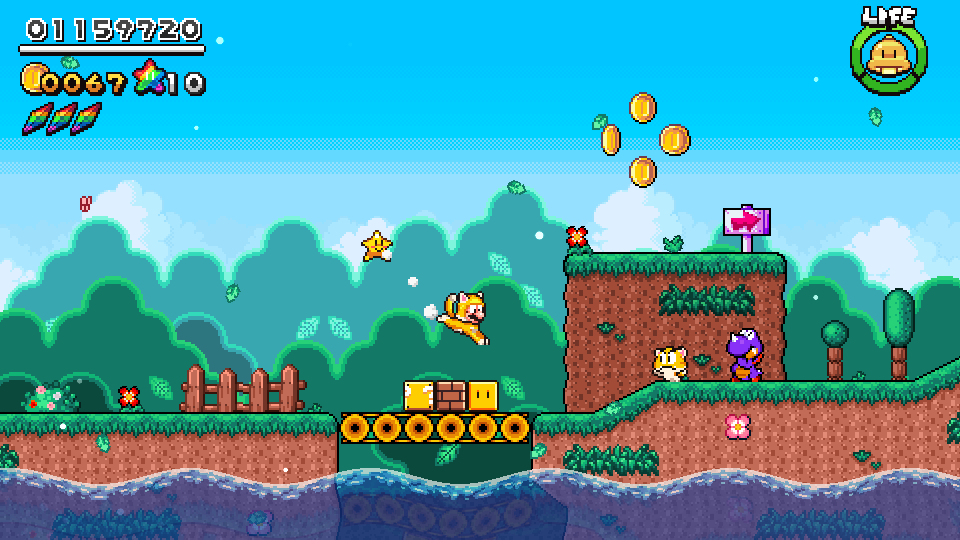
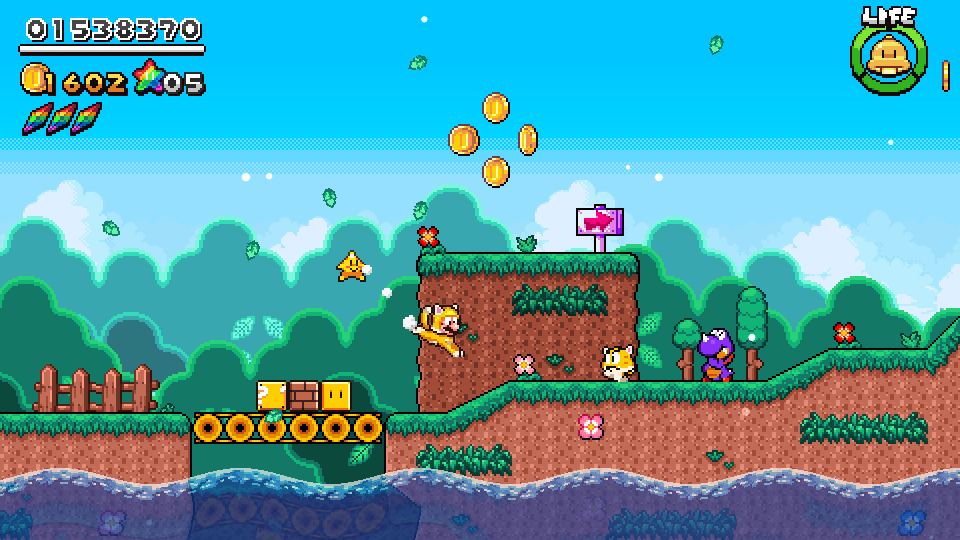
v1.1.0 update release

diff --git a/smatrs/download.html b/smatrs/download.html
@@ -56,6 +56,7 @@
                 <h3>Tips</h3>
                 <p>Resizing the game window is <strong>strongly recommended</strong>, as it defaults to SMBX2's original resolution.</p>
                 <p>For the best experience, putting Graphical Quality to High in settings is recommended.</p>
+                <p>Multiplayer is local only, but for playing online <strong><a href="https://parsec.app/downloads" class="link" target="_blank">Parsec</a></strong> is recommended!</p>
                 <p>On the episode list, there is a trophy icon at the bottom left. Clicking on it will show achievements you can unlock!</p>
                 <p>You can easily change controls within SMATRS, by going into settings.</p>
                 <p>Collecting every Rainbow Shard in every level unlocks something special!</p>
@@ -64,26 +65,37 @@
         
             <div class="text-box" id="download">
                 <h2>Download</h2>
-                <p>Version 1.0.2</p>
-                <p>Download size (All):   616 MB (319 MB zipped) </p>
-                <p>Download size (Episode): 138 MB (118 MB zipped)</p>
+                <p>Version 1.1.0</p>
+                <p>Download size (All):   616 MB (347 MB zipped) </p>
+                <p>Download size (Episode): 120 MB (111 MB zipped)</p>
                 <p>Demo length: around 2-4 hours</p>
                 <p>All credits can be found in the _credits file.</p>
 				<div class="download-box" id="download-box">
-                <h3><strong><a href="https://drive.google.com/file/d/1j4Oi1qfIMpjIpxYhT9XtAiH_sPfgMLpM/view?usp=sharing" class="link" target="_blank">Download All</a></strong></h3>
-                <p><strong><a href="https://mega.nz/file/CAoBnIBa#V-8KGiobdcYOXzryvVl11o7g86PMp0nvDk5zgk4ifpg" class="link" target="_blank">Mirror Link</a></strong></p>
+                <h3><strong><a href="https://drive.google.com/file/d/1IL5slgwO3sSxEzs5FjNS_dCGu_8ggSbu/view?usp=sharing" class="link" target="_blank">Download All</a></strong></h3>
+                <p><strong><a href="https://mega.nz/file/6cRhFQbJ#uQw0HnOKux0oEnmZKtauofWTYpQn8OGowruIxt9mfFY" class="link" target="_blank">Mirror Link</a></strong></p>
 				 </div>
 				 <p></p>
 				<div class="download-box" id="download-box">
-                <h3><strong><a href="https://drive.google.com/file/d/1-uOQgq6Qbxbf2asLJrrmH1f7yV7GEVWR/view?usp=sharing" class="link" target="_blank">Download Episode</a></strong></h3>
-                <p><strong><a href="https://mega.nz/file/WB4VQbzI#ziM9R1xH1WRn1R5-hIXOXTcuSrtooJKiovCP-YPrE30" class="link" target="_blank">Mirror Link</a></strong></p>
+                <h3><strong><a href="https://drive.google.com/file/d/1ae2nwgsF2wHxU78xox46280TIstrhJxL/view?usp=sharing" class="link" target="_blank">Download Episode</a></strong></h3>
+                <p><strong><a href="https://mega.nz/file/mEpBQaBZ#ymmXNuoQ3CzW83xtQd30ZWwc5Zt_7O9pyHq2T3ZprBU" class="link" target="_blank">Mirror Link</a></strong></p>
 				 </div>
 				<p></p>
 				 <p>You can read the changelog <strong><a href="changelog" class="link" target="">here</a></strong>.</p>
 				 <p><strong><a href="versions" class="link" target="">Older versions</a></strong></p>
             </div>
         </div>
+
+        <div class="container">
+            <div class="text-box" id="update">
+                <h2>How to Update</h2>
+				<p>To update, first download the game only by clicking on <strong>Download Episode</strong>. </p>
+				<p>For the location of the zip file, open <strong></strong>SMBX2 + SMATRS</strong>, then go into <strong>data/worlds</strong> of the folder.</p>
+				<p>Afterwards, extract the zip file and replace every file.</p>	
+				<p>You now have successfully updated the game! The zip file can be deleted.</p>	
+            </div>
+
     </main>
+
 
     <footer class="footer">
         <p>The Rainbow Stars Team and Super Mario and the Rainbow Stars are not affiliated with or endorsed by Nintendo. All related assets are property of Nintendo or their respective owners. Super Mario and the Rainbow Stars is a project that is strictly for free and anything sold for monetary gain is not endorsed by us.</p>

diff --git a/smatrs/changelog.html b/smatrs/changelog.html
@@ -56,9 +56,55 @@
 <body class="home-page">
 <div class="site-bg"></div>
  <main>
+
+    <div class="container">
+        <div class="text-box" id="changelog">
+            <h2>Changelog</h2>
+            <h3>v1.1.0 - 1/3/2025</h3>
+                <h3><strong>Changes:</strong></h3>
+                <p>Added Multiplayer. Player 1 controls Mario and player 2 Cosmic Mario with both their own partner.</p>
+                <p>Added Badges & Badge Shops. There are 3 types of Badges, which you can choose 1 of each from when starting a level.</p>
+                <p>Added Color Palettes to Mario as obtainable Badges.</p>
+                <p>Added Spicy Daredevil. To activate, enter the pipe unlocked after beating 1-Village, and talk to the NPC inside the area.</p>
+                <p>Added a Course List & Fast Travel on the world map.</p>
+                <p>Added 2 new original music tracks.</p>
+                <p>Added 2 new achievements.</p>
+                <p>Added a new page to the art gallery.</p>
+                <p>Nearly every main level has had changes in their level design, mainly being made shorter or having setup changes.</p>
+                <p>Ambient sounds have been added to the levels & world map.</p>
+                <p>Mario now starts sliding down a wall automatically upon pressing left/right once. You can also press jump when touching a wall to immediately wall-jump.</p>
+                <p>Improved certain player physics.</p>
+                <p>Added a ''Yoshi's Island'' style throw option for Starry. This makes the partner controls similar to Yoshi's Island egg throwing.</p>
+                <p>Added a ''stricter backflipping'' option. You can now change it so you have to also press up to perform it.</p>
+                <p>Added the option to disable music popups.</p>
+                <p>Added backflipping to the cat suit powerup.</p>
+                <p>Made jumping off a wall with the cat suit easier.</p>
+                <p>Added reflections on the World Map on high graphics settings.</p>
+                <p>Made it so you can no longer start from a checkpoint via the world map to be able to obtain a Daredevil Badge.</p>
+                <p>Break time levels no longer have Daredevil Badges.</p>
+                <p>Improved the small bumper hitbox in 1-7.</p>
+                <p>Redesigned the Dolphin Race in 1-7.</p>
+                <p>Made Dolpho able to slide on grass for a longer time.</p>
+                <p>Changed the design of the switch blocks.</p>
+                <p>Changed the design of the filter blocks.</p>
+                <p>The Goombooter boss fight received some small changes.</p>
+                <p>The World Map has been optimized to run better.</p>
+                <p>A wind effect has been added to 1-2 & 1-7.</p>
+                <p>The text on the results screen now animates.</p>
+                <p>The Nep-Enut no longer immediately resurfaces upon hit.</p>
+                <p>Dolphins are now squishy.</p>
+                <p>Some other visuals/graphics were changed.</p>
+                <h3><strong>Bug Fixes:</strong></h3>
+                <p>Fixed a bug where the end of level jingle would not play properly sometimes.</p>
+                <p>Fixed a bug in 1-8 where sumo bros could clip through terrain with good timing, softlocking the player.</p>
+                <p>Fixed a bug where ground pounding into a bubble in 1-? would make Mario continue to ground pound unintentionally.</p>
+                <p>Fixed an oversight in 1-1 where you could get softlocked.</p>
+                <p>Fixed an oversight in 1-4 where you could get softlocked.</p>
+        </div>
+    </div>
+
         <div class="container">
             <div class="text-box" id="changelog">
-                <h2>Changelog</h2>
                 <h3>v1.0.2 - 19/8/2024</h3>
                     <h3><strong>Changes:</strong></h3>
 					<p>Added Daredevil Badges. For clearing a level in Daredevil mode, a badge will appear on the level in the world map.</p>

diff --git a/smatrs/backup/index.html b/smatrs/backup/index.html
@@ -57,21 +57,13 @@
    <div class="logo">
         <img src="assets/logo.png" class="logo" alt="Logo">
     </div>
-
-    <div class="daredevilshrooms">
-        <img src="assets/daredevilshrooms.png" class="daredevilshrooms">
-    </div>
-
-    <div class="grimdealer">
-        <img src="assets/grimdealer.png" class="grimdealer">
-    </div>
  <main>
         <div class="container">
             <div class="text-box" id="about">
                 <h2>About</h2>
-				<p>Super Mario and the Rainbow Stars is a project that aims to bring the unique traits of the Paper Mario and Mario & Luigi series into a fun 2D platformer. Explore 6 different chapters, discover new partners and unique worlds, and stop Starnox's evil plans!</p>
-				<p><strong>Features:</strong> Multiplayer, fancy movement, cutscenes, 3D world map, tons of powerups, a 3 hp life system, partner system, badge system and more!</p>
-                <h3><a href="download"><u><strong>Download SMATRS Demo (v1.1)</strong></u></a></h3>
+				<p>Super Mario and the Rainbow Stars is a project that aims to bring the unique traits of the Paper Mario and Mario & Luigi series into a fun 2D platformer. Explore 7 different chapters, discover new partners and unique worlds, and stop Starnox's evil plans!</p>
+				<p><strong>Features:</strong> New moves, cutscenes, 3D world map, tons of powerups, a 3 hp life system, partner system, original songs and more!</p>
+                <h3><a href="download"><u><strong>Download SMATRS Demo</strong></u></a></h3>
 				 <h2>Story</h2>
 				<p>One day, the Mario Bros were hanging out near their house until they suddenly received a letter from Peach. They've been invited for the Star Festival! Before that festival starts, they're planning to take a trip with a hot air balloon. Things turn out for the worse once something goes wrong...</p>	
 				<p>Everyone gets scattered, and now it's up to Mario to find his friends, as well as retrieve the Rainbow Stars, which were scattered by the newly awakened Starnox. Mario must get these Rainbow Stars, otherwise the plan of plunging the world into darkness might succeed... Thankfully Mario will be accompanied by many different partners alongside his journey.</p>
@@ -92,9 +84,7 @@
             <img class="mySlides" src="assets/img3.png" style="width:100%">
             <img class="mySlides" src="assets/img4.png" style="width:100%">
             <img class="mySlides" src="assets/img5.png" style="width:100%">
-            <img class="mySlides" src="assets/img10.png" style="width:100%">
             <img class="mySlides" src="assets/img6.png" style="width:100%">
-            <img class="mySlides" src="assets/img9.png" style="width:100%">
             <img class="mySlides" src="assets/img7.png" style="width:100%">
             <img class="mySlides" src="assets/img8.png" style="width:100%">
             <div class="w3-center w3-container w3-section w3-large w3-text-white w3-display-bottommiddle" style="width:100%">
@@ -108,8 +98,6 @@
                 <span class="w3-badge demo w3-border w3-transparent w3-hover-white" onclick="currentDiv(6)"></span>
                 <span class="w3-badge demo w3-border w3-transparent w3-hover-white" onclick="currentDiv(7)"></span>
                 <span class="w3-badge demo w3-border w3-transparent w3-hover-white" onclick="currentDiv(8)"></span>
-                <span class="w3-badge demo w3-border w3-transparent w3-hover-white" onclick="currentDiv(9)"></span>
-                <span class="w3-badge demo w3-border w3-transparent w3-hover-white" onclick="currentDiv(10)"></span>
             </div>
         </div>
     </div>

diff --git a/smatrs/backup/main.css b/smatrs/backup/main.css
@@ -89,32 +89,6 @@ h2 {
     }
 }
 
-#update {
-    text-align: center; 
-    margin-top: 20px;
-    width: 100%;
-    max-width: 1100px; 
-    padding: 20px;
-    box-sizing: border-box;
-}
-
-@media (min-width: 769px) {
-    #about {
-        width: 100%;
-        max-width: 1100px;
-    }
-}
-
-@media (max-width: 768px) {
-    #about {
-        width: 100%; 
-        margin-left: 0; 
-        margin-right: 0; 
-        margin-top: 15px; 
-        padding: 10px; 
-    }
-}
-
 #faq, #contact, #versions {
     text-align: center;
     margin-top: 30px;
@@ -422,12 +396,11 @@ main {
     opacity: 0;
     animation: slideInAndFadeIn 1.2s forwards, moveUpDown 3.8s 6s infinite ease-in-out;
     width: 800vh;
-    max-width: 500px; 
+    max-width: 800px; 
     height: auto;
     margin: 0 auto;
-    z-index: 4;
-    padding-bottom: 10px;
-    padding-top: 140px;
+    z-index: 0;
+    padding-bottom: 20px;
 }
 
 @media (max-width: 768px) { 
@@ -456,75 +429,10 @@ main {
         top: 0px;
     }
     50% {
-        top: -7px;
+        top: -10px;
     }
     100% {
         top: 0px;
-    }
-}
-
-@keyframes slideIn {
-    0% {
-        top: 0px;
-        opacity: 0;
-    }
-    100% {
-        top: -20px;
-        opacity: 1;
-    }
-}
-
-.grimdealer {
-    position: absolute;
-    top: 100%;
-    left: 50%;
-    opacity: 0;
-    animation: slideIn 1.2s forwards; 
-    width: 800vh;
-    max-width: 1000px; 
-    height: auto;
-    margin: 0 auto;
-    z-index: 2;
-    padding-top: 40px;
-    transform: translate(-50%, 0%); /* Center both horizontally & vertically */
-}
-
-@media (max-width: 768px) { 
-    .grimdealer {
-        z-index: -10;
-    }
-}
-
-.daredevilshrooms {
-    position: absolute;
-    top: 100%;
-    left: 50%;
-    opacity: 0;
-    animation: 1s slideIn 1.2s forwards, moveUpDown2 3.8s 8s infinite ease-in-out;
-    width: 800vh;
-    max-width: 1150px; 
-    height: auto;
-    margin: 0 auto;
-    z-index: 3;
-    padding-top: 40px;
-    transform: translate(-50%, -3%); /* Center both horizontally & vertically */
-}
-
-@media (max-width: 768px) { 
-    .daredevilshrooms {
-        z-index: -10;
-    }
-}
-
-@keyframes moveUpDown2 {
-    0% {
-        top: -20px;
-    }
-    50% {
-        top: -25px;
-    }
-    100% {
-        top: -20px;
     }
 }
 

diff --git a/smatrs/versions.html b/smatrs/versions.html
@@ -58,6 +58,8 @@
         <div class="container">
             <div class="text-box" id="versions">
                 <h2>Older versions</h2>
+                <p><strong><a href="https://drive.google.com/file/d/1j4Oi1qfIMpjIpxYhT9XtAiH_sPfgMLpM/view?usp=sharing" class="link" target="_blank">(All) v1.0.2 - 19/8/2024</a></strong>.</p>
+                <p><strong><a href="https://drive.google.com/file/d/1-uOQgq6Qbxbf2asLJrrmH1f7yV7GEVWR/view?usp=sharing" class="link" target="_blank">(Episode) v1.0.2 - 19/8/2024</a></strong>.</p>
 			     <p><strong><a href="https://drive.google.com/file/d/1jm_ltsNmlUc7nCFghYqTyYHkA9xTmtEg/view?usp=sharing" class="link" target="_blank">(All) v1.0.1 - 17/8/2024</a></strong>.</p>
 			     <p><strong><a href="https://drive.google.com/file/d/19xdXTkFpUm_ULI-s9DuciyxUzWW2iHP_/view?usp=sharing" class="link" target="_blank">(Episode) v1.0.1 - 17/8/2024</a></strong>.</p>	
 			     <p><strong><a href="https://drive.google.com/file/d/1j3eOUjk3uEy6fE7jTGoVMAVlNsMnxd2a/view?usp=sharing" class="link" target="_blank">(All) v1.0.0 - 16/8/2024</a></strong>.</p>

diff --git a/smatrs/faq.html b/smatrs/faq.html
@@ -63,7 +63,7 @@
                 <h3>What's the difference between 'Full' and 'Episode' on the download page?</h3>
 					<p>''Full'' includes SMBX2, which is needed to play. ''Episode'' just downloads the game only, which is for people that already have SMBX2 installed.</p>
                 <h3>Is multiplayer supported?</h3>
-					<p>Currently no, but there may be plans in the future to support it.</p>
+					<p>Yes!</p>
                 <h3>Are multiple languages supported?</h3>
 					<p>Right now it's just English, but more languages will be supported in future updates.</p>
                 <h3>Is Mario the only playable character?</h3>
